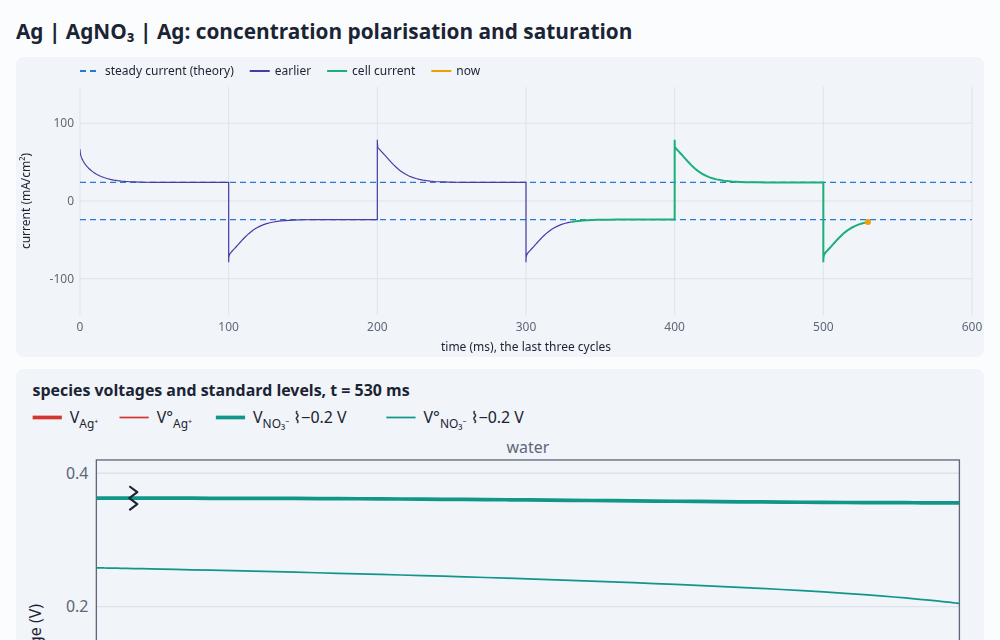
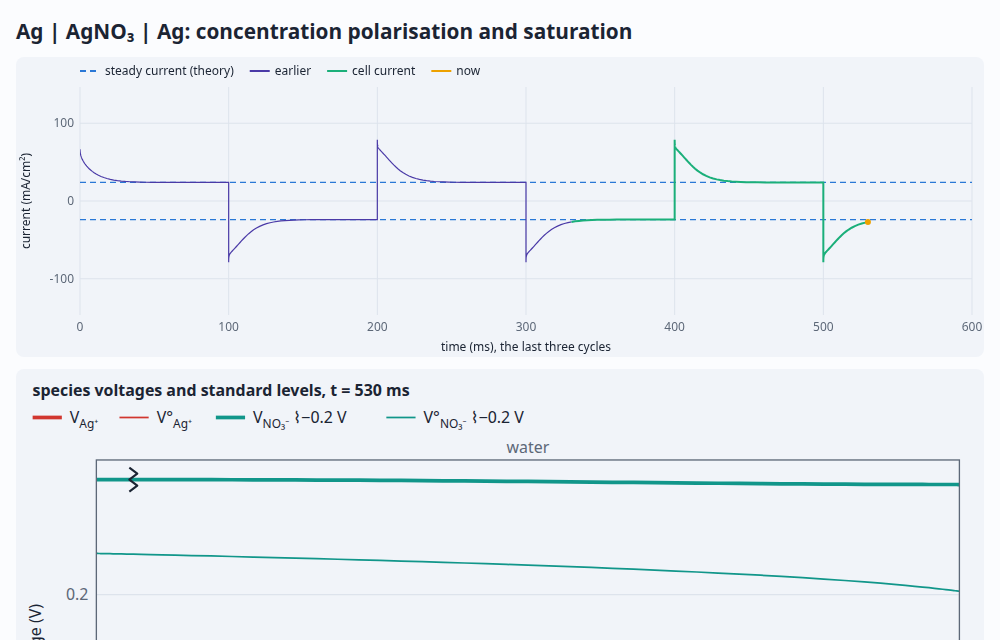
Saturation demo: with ?t, straight there in one advance, so its screenshot is the same on any machine

Changed region(s): [[0.062, 0.7188, 0.961, 0.8125], [0.093, 0.8438, 0.961, 0.9688], [0.062, 0.9062, 0.093, 0.9688]]

diff --git a/demos/saturation.html b/demos/saturation.html
@@ -107,7 +107,8 @@ function frame(now = performance.now()) {
   lastFrame = now;
   const { period, stop } = trace, perCycle = +pace.value;
   const target = stop < Infinity ? stop : dev.solver.time + (perCycle > 0 ? (wall * period) / perCycle : period);
-  const s = dev.advance(target, { budgetMs: 12, tol: 1e-3 });
+  // With ?t, straight there in one go: the same steps however fast the machine.
+  const s = dev.advance(target, { budgetMs: stop < Infinity ? Infinity : 12, tol: 1e-3 });
   s.trace.t.forEach((t, k) => {
     trace.t.push(t);
     trace.I.push(-s.trace.current[k] / 10); // from the right electrode to the left: mA/cm², positive for +V
